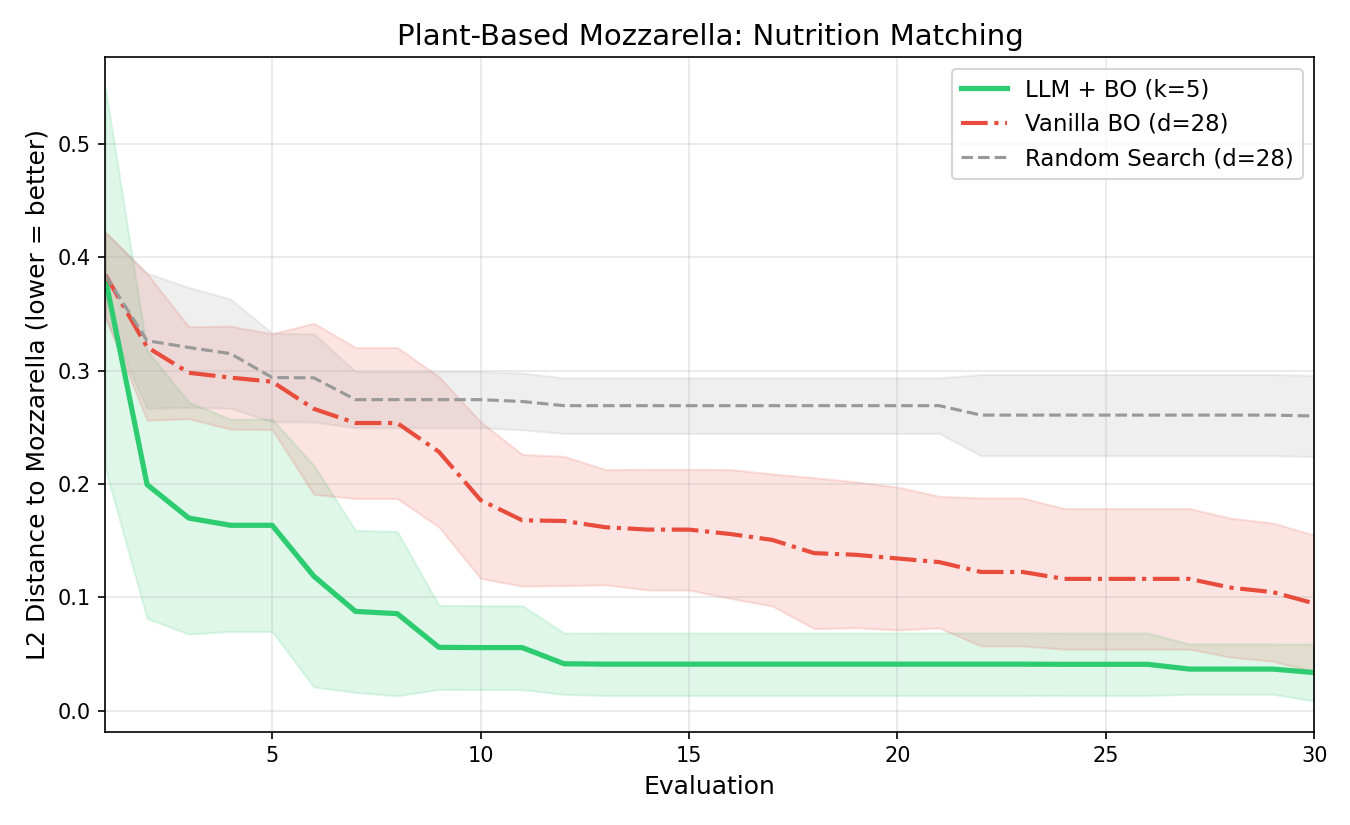
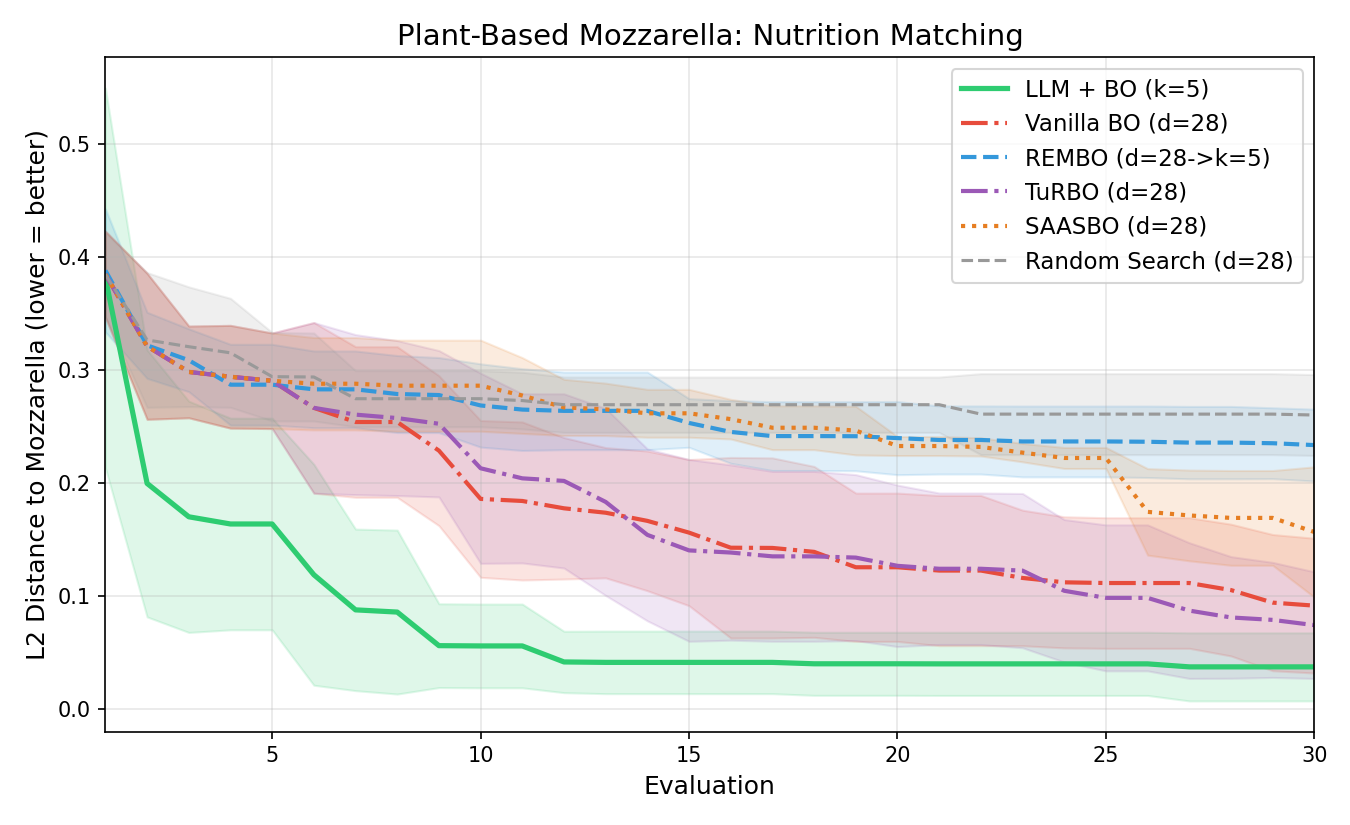
Add REMBO, TuRBO, SAASBO baselines to mozzarella experiment
Compare LLM+BO against three additional BO baselines:
- REMBO: random embedding from d=28 to k=5
- TuRBO: trust region BO with adaptive region sizing
- SAASBO: fully Bayesian GP with sparsity-inducing priors

Results (30 budget, 5 seeds): LLM+BO (0.037) > TuRBO (0.074) >
Vanilla BO (0.091) > SAASBO (0.157) > REMBO (0.234) > Random (0.260)

https://claude.ai/code/session_01VLpqYDV56WQxS9TwGALXHn

diff --git a/experiments/run_mozzarella_experiment.py b/experiments/run_mozzarella_experiment.py
@@ -28,8 +28,8 @@ import matplotlib
 matplotlib.use("Agg")
 import matplotlib.pyplot as plt
 from typing import Dict, List, Tuple
-from botorch.models import SingleTaskGP
-from botorch.fit import fit_gpytorch_mll
+from botorch.models import SingleTaskGP, SaasFullyBayesianSingleTaskGP
+from botorch.fit import fit_gpytorch_mll, fit_fully_bayesian_model_nuts
 from botorch.optim import optimize_acqf
 from botorch.acquisition import qLogNoisyExpectedImprovement
 from botorch.sampling.normal import SobolQMCNormalSampler
@@ -252,6 +252,263 @@ def llm_reduced_bo(objective, d_full: int, selected_indices: List[int],
 
 
 # ---------------------------------------------------------------------------
+# 6b. REMBO (Random Embedding BO, d=28 -> k=5)
+# ---------------------------------------------------------------------------
+
+def rembo_bo(objective, d: int, budget: int = 30, n_init: int = 5,
+             seed: int = 0, target_dim: int = 5) -> Dict:
+    """REMBO: project high-dim unconstrained space to low-dim via random Gaussian."""
+    torch.manual_seed(seed)
+    np.random.seed(seed)
+
+    k = target_dim
+    z_lo, z_hi = -3.0, 3.0
+    bounds_full = torch.tensor([[z_lo]*d, [z_hi]*d], dtype=torch.double)
+
+    # Random Gaussian projection matrix (d x k)
+    rng = np.random.RandomState(seed)
+    A = torch.tensor(rng.randn(d, k) / np.sqrt(k), dtype=torch.double)
+    x_center = torch.zeros(d, dtype=torch.double)  # center of unconstrained space
+
+    # Determine bounds in the low-dim space empirically
+    sobol_samples = SobolEngine(dimension=d, scramble=True, seed=seed)
+    x_samples = unnormalize(sobol_samples.draw(4096).double(), bounds_full)
+    z_samples = (x_samples - x_center) @ A
+    z_min = z_samples.min(dim=0).values
+    z_max = z_samples.max(dim=0).values
+    z_bounds = torch.stack([z_min, z_max])
+
+    def z_to_x(z: torch.Tensor) -> np.ndarray:
+        x_unconstrained = x_center + A @ z
+        x_unconstrained = torch.clamp(x_unconstrained,
+                                       bounds_full[0, 0], bounds_full[1, 0])
+        return _softmax(x_unconstrained.detach().numpy())
+
+    all_z = []
+    all_y = []
+    best_values = []
+
+    sobol_z = SobolEngine(dimension=k, scramble=True, seed=seed)
+    z_init = z_min + sobol_z.draw(n_init).double() * (z_max - z_min)
+
+    for i in range(n_init):
+        x = z_to_x(z_init[i])
+        y = objective(x)
+        all_z.append(z_init[i].numpy())
+        all_y.append(y)
+        best_values.append(max(all_y))
+
+    for step in range(budget - n_init):
+        train_Z = torch.tensor(np.array(all_z), dtype=torch.double)
+        train_Y = torch.tensor(all_y, dtype=torch.double).unsqueeze(-1)
+        train_Z_norm = normalize(train_Z, z_bounds)
+
+        gp = SingleTaskGP(train_Z_norm, train_Y, outcome_transform=Standardize(m=1))
+        mll = ExactMarginalLogLikelihood(gp.likelihood, gp)
+        try:
+            fit_gpytorch_mll(mll)
+        except Exception:
+            pass
+
+        sampler = SobolQMCNormalSampler(sample_shape=torch.Size([256]))
+        acq = qLogNoisyExpectedImprovement(
+            model=gp, X_baseline=train_Z_norm, sampler=sampler,
+        )
+        candidate_norm, _ = optimize_acqf(
+            acq_function=acq,
+            bounds=torch.stack([torch.zeros(k), torch.ones(k)]).double(),
+            q=1, num_restarts=10, raw_samples=512,
+        )
+        z_new = unnormalize(candidate_norm.squeeze(0), z_bounds)
+        x_new = z_to_x(z_new)
+        y_new = objective(x_new)
+        all_z.append(z_new.detach().numpy())
+        all_y.append(y_new)
+        best_values.append(max(all_y))
+
+    return {"best_values": best_values, "all_y": all_y, "final_best": max(all_y)}
+
+
+# ---------------------------------------------------------------------------
+# 6c. TuRBO (Trust Region BO, d=28)
+# ---------------------------------------------------------------------------
+
+def turbo_bo(objective, d: int, budget: int = 30, n_init: int = 5,
+             seed: int = 0) -> Dict:
+    """TuRBO: BO with adaptive trust region in unconstrained space, softmax to simplex."""
+    torch.manual_seed(seed)
+    np.random.seed(seed)
+
+    z_lo, z_hi = -3.0, 3.0
+    bounds = torch.tensor([[z_lo]*d, [z_hi]*d], dtype=torch.double)
+
+    # TuRBO hyperparameters
+    length_init = 0.8
+    length_min = 0.5 ** 7
+    length_max = 1.6
+    success_tolerance = 3
+    failure_tolerance = max(d, 1)
+
+    length = length_init
+    n_successes = 0
+    n_failures = 0
+
+    all_z = []
+    all_y = []
+    best_values = []
+
+    sobol = SobolEngine(dimension=d, scramble=True, seed=seed)
+    z_init = unnormalize(sobol.draw(n_init).double(), bounds)
+
+    for i in range(n_init):
+        z = z_init[i].numpy()
+        x = _softmax(z)
+        y = objective(x)
+        all_z.append(z)
+        all_y.append(y)
+        best_values.append(max(all_y))
+
+    best_y = max(all_y)
+
+    for step in range(budget - n_init):
+        train_Z = torch.tensor(np.array(all_z), dtype=torch.double)
+        train_Y = torch.tensor(all_y, dtype=torch.double).unsqueeze(-1)
+        train_Z_norm = normalize(train_Z, bounds)
+
+        gp = SingleTaskGP(train_Z_norm, train_Y, outcome_transform=Standardize(m=1))
+        mll = ExactMarginalLogLikelihood(gp.likelihood, gp)
+        try:
+            fit_gpytorch_mll(mll)
+        except Exception:
+            pass
+
+        # Trust region around current best
+        best_idx = int(np.argmax(all_y))
+        z_center_norm = train_Z_norm[best_idx]
+
+        covar = gp.covar_module
+        if hasattr(covar, 'base_kernel'):
+            lengthscales = covar.base_kernel.lengthscale.detach().squeeze()
+        else:
+            lengthscales = covar.lengthscale.detach().squeeze()
+        weights = lengthscales / lengthscales.mean()
+        weights = weights / torch.prod(weights).pow(1.0 / d)
+
+        tr_lb = torch.clamp(z_center_norm - weights * length / 2, 0.0, 1.0)
+        tr_ub = torch.clamp(z_center_norm + weights * length / 2, 0.0, 1.0)
+
+        sampler = SobolQMCNormalSampler(sample_shape=torch.Size([256]))
+        acq = qLogNoisyExpectedImprovement(
+            model=gp, X_baseline=train_Z_norm, sampler=sampler,
+        )
+        candidate_norm, _ = optimize_acqf(
+            acq_function=acq,
+            bounds=torch.stack([tr_lb, tr_ub]).double(),
+            q=1, num_restarts=10, raw_samples=512,
+        )
+        z_new = unnormalize(candidate_norm.squeeze(0), bounds).detach().numpy()
+        x_new = _softmax(z_new)
+        y_new = objective(x_new)
+        all_z.append(z_new)
+        all_y.append(y_new)
+        best_values.append(max(all_y))
+
+        # Update trust region
+        if y_new > best_y:
+            n_successes += 1
+            n_failures = 0
+            best_y = y_new
+        else:
+            n_successes = 0
+            n_failures += 1
+
+        if n_successes >= success_tolerance:
+            length = min(2.0 * length, length_max)
+            n_successes = 0
+        elif n_failures >= failure_tolerance:
+            length = length / 2.0
+            n_failures = 0
+
+        if length < length_min:
+            length = length_init
+            n_successes = 0
+            n_failures = 0
+
+    return {"best_values": best_values, "all_y": all_y, "final_best": max(all_y)}
+
+
+# ---------------------------------------------------------------------------
+# 6d. SAASBO (Sparse Axis-Aligned Subspace BO, d=28)
+# ---------------------------------------------------------------------------
+
+def saasbo_bo(objective, d: int, budget: int = 30, n_init: int = 5,
+              seed: int = 0, warmup_steps: int = 256,
+              num_samples: int = 128) -> Dict:
+    """SAASBO: fully Bayesian GP with sparsity priors, softmax to simplex."""
+    torch.manual_seed(seed)
+    np.random.seed(seed)
+
+    z_lo, z_hi = -3.0, 3.0
+    bounds = torch.tensor([[z_lo]*d, [z_hi]*d], dtype=torch.double)
+
+    all_z = []
+    all_y = []
+    best_values = []
+
+    sobol = SobolEngine(dimension=d, scramble=True, seed=seed)
+    z_init = unnormalize(sobol.draw(n_init).double(), bounds)
+
+    for i in range(n_init):
+        z = z_init[i].numpy()
+        x = _softmax(z)
+        y = objective(x)
+        all_z.append(z)
+        all_y.append(y)
+        best_values.append(max(all_y))
+
+    for step in range(budget - n_init):
+        train_Z = torch.tensor(np.array(all_z), dtype=torch.double)
+        train_Y = torch.tensor(all_y, dtype=torch.double).unsqueeze(-1)
+        train_Z_norm = normalize(train_Z, bounds)
+
+        gp = SaasFullyBayesianSingleTaskGP(
+            train_X=train_Z_norm, train_Y=train_Y,
+        )
+        try:
+            fit_fully_bayesian_model_nuts(
+                gp, warmup_steps=warmup_steps, num_samples=num_samples,
+                disable_progbar=True,
+            )
+        except Exception:
+            gp = SingleTaskGP(
+                train_Z_norm, train_Y, outcome_transform=Standardize(m=1)
+            )
+            mll = ExactMarginalLogLikelihood(gp.likelihood, gp)
+            try:
+                fit_gpytorch_mll(mll)
+            except Exception:
+                pass
+
+        sampler = SobolQMCNormalSampler(sample_shape=torch.Size([256]))
+        acq = qLogNoisyExpectedImprovement(
+            model=gp, X_baseline=train_Z_norm, sampler=sampler,
+        )
+        candidate_norm, _ = optimize_acqf(
+            acq_function=acq,
+            bounds=torch.stack([torch.zeros(d), torch.ones(d)]).double(),
+            q=1, num_restarts=10, raw_samples=512,
+        )
+        z_new = unnormalize(candidate_norm.squeeze(0), bounds).detach().numpy()
+        x_new = _softmax(z_new)
+        y_new = objective(x_new)
+        all_z.append(z_new)
+        all_y.append(y_new)
+        best_values.append(max(all_y))
+
+    return {"best_values": best_values, "all_y": all_y, "final_best": max(all_y)}
+
+
+# ---------------------------------------------------------------------------
 # 7. LLM INGREDIENT SELECTION
 # ---------------------------------------------------------------------------
 
@@ -341,6 +598,9 @@ def run_experiment(budget: int = 30, n_seeds: int = 5, n_init: int = 5):
     method_names = [
         f"LLM + BO (k={k})",
         f"Vanilla BO (d={d})",
+        f"REMBO (d={d}->k=5)",
+        f"TuRBO (d={d})",
+        f"SAASBO (d={d})",
         f"Random Search (d={d})",
     ]
     all_traces = {name: [] for name in method_names}
@@ -356,9 +616,22 @@ def run_experiment(budget: int = 30, n_seeds: int = 5, n_init: int = 5):
         res = vanilla_bo(objective, d, budget=budget, n_init=n_init, seed=seed)
         all_traces[method_names[1]].append(res["best_values"])
 
+        # REMBO
+        res = rembo_bo(objective, d, budget=budget, n_init=n_init, seed=seed)
+        all_traces[method_names[2]].append(res["best_values"])
+
+        # TuRBO
+        res = turbo_bo(objective, d, budget=budget, n_init=n_init, seed=seed)
+        all_traces[method_names[3]].append(res["best_values"])
+
+        # SAASBO (reduced NUTS settings for tractability in d=28)
+        res = saasbo_bo(objective, d, budget=budget, n_init=n_init, seed=seed,
+                        warmup_steps=64, num_samples=32)
+        all_traces[method_names[4]].append(res["best_values"])
+
         # Random search
         res = random_search(objective, d, budget=budget, seed=seed)
-        all_traces[method_names[2]].append(res["best_values"])
+        all_traces[method_names[5]].append(res["best_values"])
 
     return all_traces, budget, df, selected, fat_norm, sodium_norm
 
@@ -382,6 +655,12 @@ def plot_convergence(all_traces: Dict, budget: int, save_path: str = os.path.joi
             color, ls, lw = "#2ecc71", "-", 2.5
         elif "Vanilla" in name:
             color, ls, lw = "#e74c3c", "-.", 2
+        elif "REMBO" in name:
+            color, ls, lw = "#3498db", "--", 2
+        elif "TuRBO" in name:
+            color, ls, lw = "#9b59b6", "-.", 2
+        elif "SAASBO" in name:
+            color, ls, lw = "#e67e22", ":", 2
         else:
             color, ls, lw = "#999999", "--", 1.5
 
@@ -418,6 +697,12 @@ def plot_final_bar(all_traces: Dict, save_path: str = os.path.join(_ROOT, "plots
             colors.append("#2ecc71")
         elif "Vanilla" in name:
             colors.append("#e74c3c")
+        elif "REMBO" in name:
+            colors.append("#3498db")
+        elif "TuRBO" in name:
+            colors.append("#9b59b6")
+        elif "SAASBO" in name:
+            colors.append("#e67e22")
         else:
             colors.append("#999999")
 
